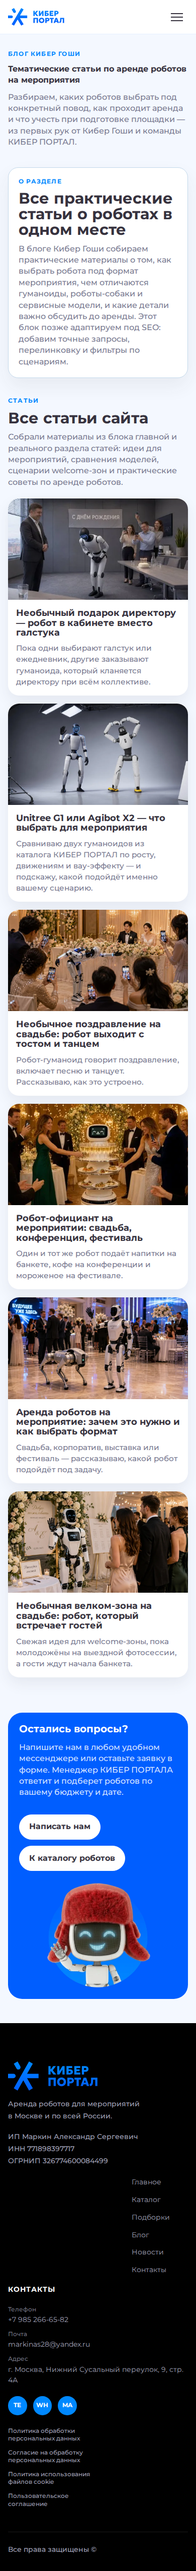
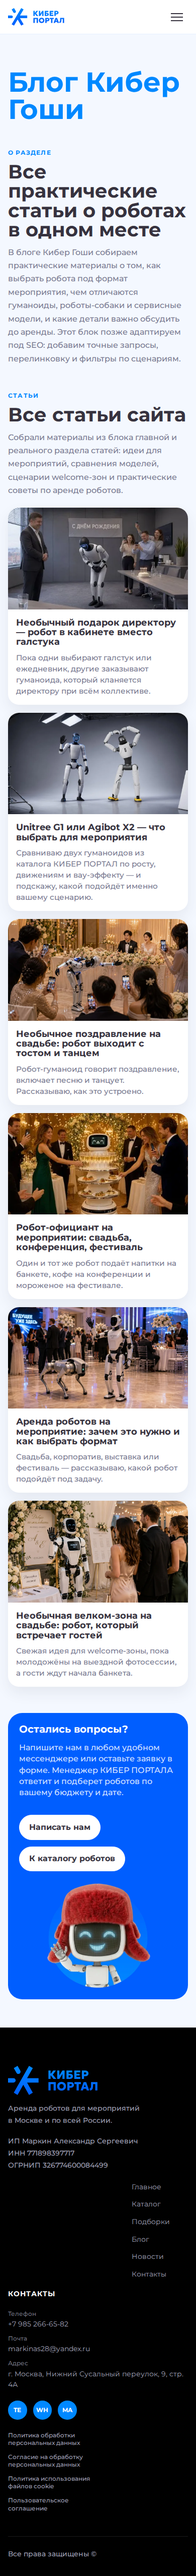
fix: refine articles page spacing

Changed region(s): [[0.0308, 0.0, 0.9538, 0.7793], [0.0308, 0.8104, 0.5538, 0.8416], [0.0615, 0.9351, 0.4, 0.9975]]

diff --git a/tests/visual/articles-index-page.test.ts b/tests/visual/articles-index-page.test.ts
@@ -6,6 +6,14 @@ const page = readFileSync('src/pages/articles.astro', 'utf8');
 const data = JSON.parse(readFileSync('data/design/home-live-blocks.json', 'utf8')) as {
   articles: { title: string; description: string; cards: Array<{ title: string }> };
 };
+const cssBlock = (selector: string) => {
+  const marker = `${selector} {`;
+  const start = page.indexOf(marker);
+  if (start === -1) return '';
+  const bodyStart = start + marker.length;
+  const end = page.indexOf('\n  }', bodyStart);
+  return end === -1 ? page.slice(bodyStart) : page.slice(bodyStart, end);
+};
 const qa = JSON.parse(readFileSync('data/review/full-site-visual-qa.json', 'utf8')) as {
   visualFindings: Array<{ id: string; severity: string; routes: string[] }>;
   resolvedFindings?: Array<{ id: string; route: string; status: string }>;
@@ -16,8 +24,11 @@ test('KIBER-91 articles index is filled from approved homepage article data', ()
   assert.doesNotMatch(page, /Здесь будут практические статьи/);
   assert.match(page, /import \{ homeArticles, homeFinalCta \}/);
   assert.match(page, /const articleCards = homeArticles\.cards/);
-  assert.match(page, /<h1 id="page-title">\{homeArticles\.title\}<\/h1>/);
-  assert.match(page, /\{articlesPageDescription\}/);
+  assert.match(page, /<h1 id="page-title">Блог Кибер Гоши<\/h1>/);
+  assert.doesNotMatch(page, /<h1 id="page-title">\{homeArticles\.title\}<\/h1>/);
+  assert.doesNotMatch(page, /<section class="articles-page__hero container"[\s\S]*\{articlesPageDescription\}[\s\S]*<\/section>/);
+  assert.doesNotMatch(page, /Тематические статьи по аренде роботов на мероприятия/);
+  assert.doesNotMatch(page, /Разбираем, каких роботов выбрать под конкретный повод/);
   assert.match(page, /data-article-card-count=\{articleCards\.length\}/);
   assert.equal(data.articles.cards.length, 6);
   assert.match(page, /\{articleCards\.map\(\(card\) => \(/);
@@ -27,6 +38,12 @@ test('KIBER-91 articles index has intro block, article feed and bottom CTA in or
   assert.match(page, /class="articles-page__intro container"/);
   assert.match(page, /Все практические статьи о роботах в одном месте/);
   assert.match(page, /который позже нужно будет адаптировать по SEO|позже адаптируем под SEO/);
+  const introCss = cssBlock('.articles-page__intro-copy');
+  assert.doesNotMatch(introCss, /background:\s*var\(--kp-white\)/);
+  assert.doesNotMatch(introCss, /box-shadow:/);
+  assert.match(cssBlock('.articles-page__hero h1'), /color:\s*var\(--kp-reference-blue\)/);
+  assert.match(cssBlock('.articles-page__hero h1'), /font-size:\s*clamp\(3\.1rem, 7vw, var\(--kp-reference-display-xl\)\)/);
+  assert.match(page, /\.articles-page__hero,[\s\S]*\.articles-page__cta \{[\s\S]*?width:\s*min\(100% - \(2 \* var\(--kp-reference-page-gutter\)\), var\(--kp-reference-container\)\)/);
   assert.match(page, /<section class="articles-page__feed container" id="article-feed"/);
   assert.match(page, /<h2 id="article-feed-title">Все статьи сайта<\/h2>/);
   assert.match(page, /<section class="articles-page__cta container"[\s\S]*<HomeFinalCta \{\.\.\.homeFinalCta\} \/>[\s\S]*<\/section>/);
